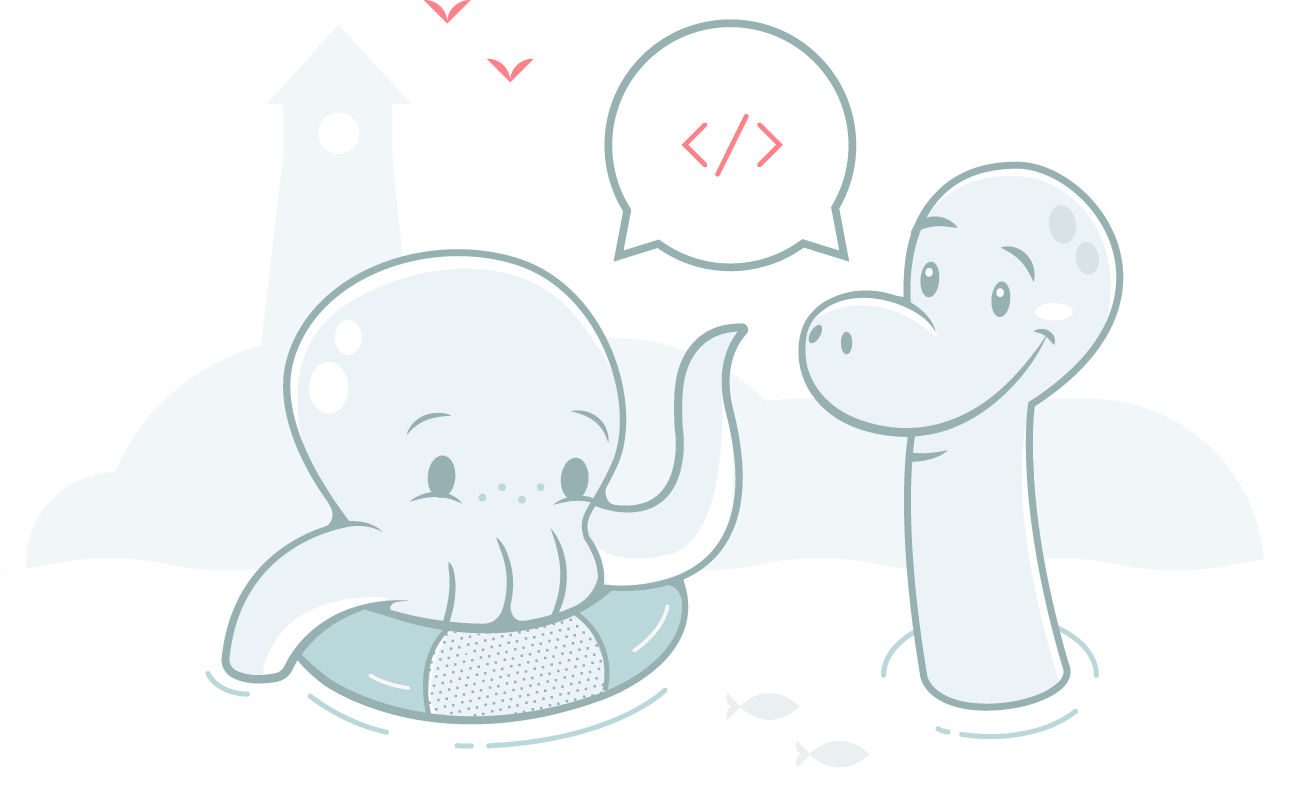
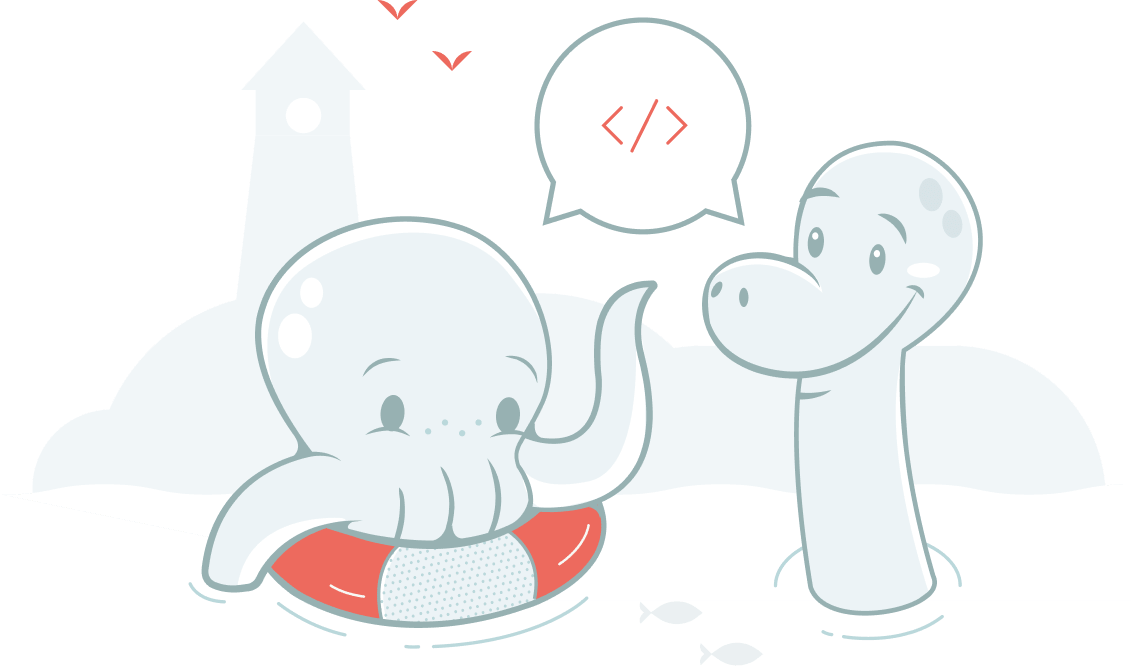
Update images, start new waves

diff --git a/pages/services/next-consulting.vue b/pages/services/next-consulting.vue
@@ -1,6 +1,6 @@
 <template>
   <div itemscope itemtype="http://schema.org/Service">
-    <HeroBlock class="next-consulting">
+    <HeroBlock class="next-consulting waves next-waves">
       <template #content>
         <h1 itemprop="name">
           Boost performance and easily make the leap from React to Next.js
@@ -23,7 +23,7 @@
 
     <div class="section bg-navy flex flex-wrap justify-center">
       <div class="section-content">
-        <div class="grid grid-cols-1 gap-x-32 lg:grid-cols-5">
+        <div class="grid grid-cols-1 gap-x-32 mb-24 lg:grid-cols-5">
           <div class="text-white lg:col-span-3">
             <h2 class="mb-10 text-3xl text-white">All about Next.js</h2>
 
@@ -160,7 +160,7 @@
           <nuxt-img
             class="h-auto m-auto max-w-2xl w-full"
             format="webp"
-            src="/img/hero-images/ember-consulting.png"
+            src="/img/laptop.png"
           />
         </div>
         <div>
@@ -212,3 +212,16 @@ export default {
   }
 };
 </script>
+
+<style lang="scss">
+.github-logo,
+.linkedin-logo,
+.twitter-logo {
+  svg {
+    path {
+      @apply transition-colors;
+      fill: var(--navy-light);
+    }
+  }
+}
+</style>

diff --git a/assets/css/_base.scss b/assets/css/_base.scss
@@ -162,6 +162,15 @@ h6 {
   }
 }
 
+.next-waves {
+  &::after {
+    background-image: url(/svgs/next-waves.svg);
+    background-size: 2050px;
+    bottom: -80px;
+    height: 185px;
+  }
+}
+
 .white-waves {
   &::after {
     background-image: url(/svgs/white-waves.svg);
